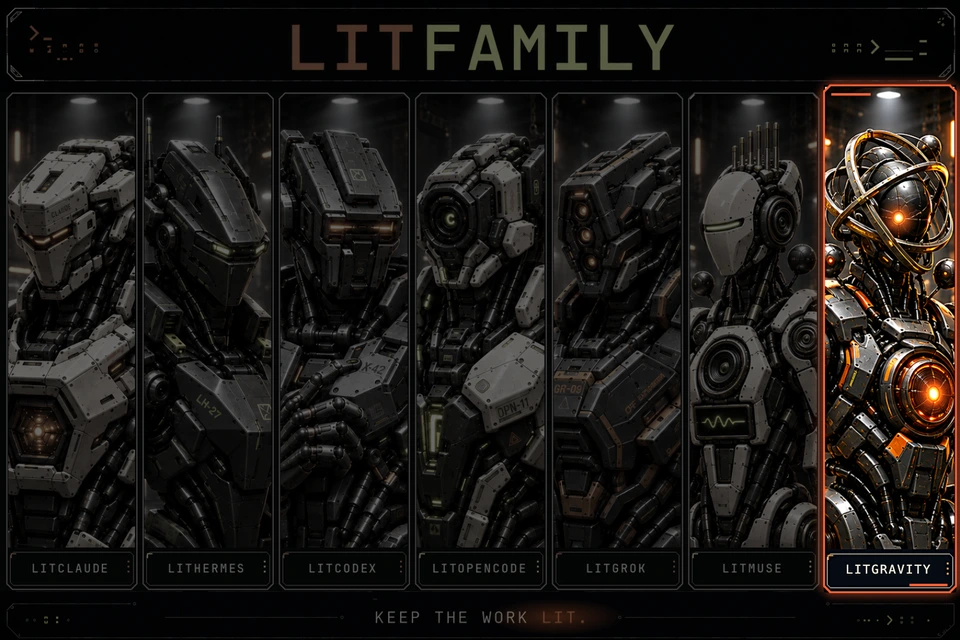
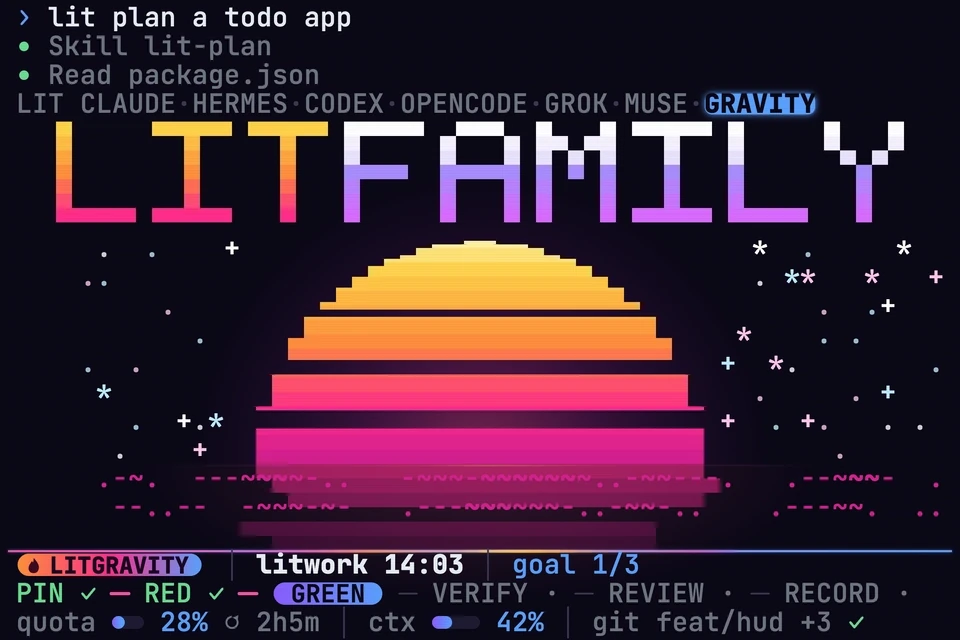
docs(readme): open with the new sunset cover loop

diff --git a/README_ko-KR.md b/README_ko-KR.md
@@ -1,4 +1,4 @@
-<p align="center"><picture><source media="(prefers-reduced-motion: reduce)" srcset="./docs/assets/cover-motion-still.webp" /><source media="(prefers-reduced-motion: no-preference)" srcset="./docs/assets/cover-motion.webp" /><img src="./docs/assets/cover.webp" width="100%" alt="LitFamily 커버: 장갑 기계 일곱 대가 각자 칸에 서 있고, 일곱 번째 칸의 LitGravity 기계(어두운 구형 머리를 자이로 고리가 감싼 기계)가 머리와 가슴의 주황 코어를 켜고 테두리에 불이 들어옵니다. 위에는 LITFAMILY, 아래에는 KEEP THE WORK LIT." /></picture></p>
+<p align="center"><picture><source media="(prefers-reduced-motion: reduce)" srcset="./docs/assets/cover-motion-still.webp" /><source media="(prefers-reduced-motion: no-preference)" srcset="./docs/assets/cover-motion.webp" /><img src="./docs/assets/cover.webp" width="100%" alt="LitFamily 커버: 노을빛 터미널 화면입니다. 위쪽에는 짧은 agy 대화가 있고, 가운데는 픽셀 글자 LITFAMILY와 줄무늬 해가 채우며 일곱 제품 이름 줄에서 LITGRAVITY가 켜지고, 아래에는 LitGravity의 상태줄이 화면을 마무리합니다." /></picture></p>
 
 <h1 align="center">LitGravity</h1>
 <p align="center"><strong>Keep the work lit.</strong></p>
@@ -335,7 +335,7 @@ agy는 플러그인에 프롬프트 자체를 받는 훅을 주지 않으므로,
 
 LitGravity는 LitFamily 패키지 일곱 개 중 하나이고, 각 패키지는 같은 일하는 방식을 코딩 에이전트 하나에 붙여 주며 따로 설치되고 따로 동작합니다. 쓰는 에이전트에 맞는 것 하나만 설치하면 되고, 다른 패키지는 필요 없습니다. 일곱 패키지와 각 패키지가 맡은 에이전트는 [LitFamily](https://github.com/wjgoarxiv/litfamily)에 모여 있습니다.
 
-커버의 장갑 기계 일곱 대가 이 일곱 패키지이고, 일곱 번째 칸의 궤도 기계가 LitGravity입니다. 커버의 모션은 LitFamily 모션 스킬로 만든 브랜드 연출로, 그려서 움직인 그림이라 실제 agy 세션을 녹화한 장면은 들어 있지 않습니다. 시스템에서 동작 줄이기를 켜 두었다면 정지 프레임이 대신 보입니다.
+아래 그림의 장갑 기계 일곱 대가 이 일곱 패키지이고, 일곱 번째 칸의 궤도 기계가 LitGravity입니다. 커버의 모션은 LitFamily 모션 스킬로 만든 브랜드 연출로, 그려서 움직인 그림이라 실제 agy 세션을 녹화한 장면은 들어 있지 않습니다. 시스템에서 동작 줄이기를 켜 두었다면 정지 프레임이 대신 보입니다.
 
 <p align="center"><img src="./docs/assets/litfamily-machines.png" width="100%" alt="LitFamily 기계 일곱 대가 모두 불이 켜진 채 나란히 서 있습니다. LitClaude, LitHermes, LitCodex, LitOpenCode, LitGrok, LitMuse, LitGravity. 위에는 LITFAMILY, 아래에는 KEEP THE WORK LIT." /></p>
 

diff --git a/README.md b/README.md
@@ -1,4 +1,4 @@
-<p align="center"><picture><source media="(prefers-reduced-motion: reduce)" srcset="./docs/assets/cover-motion-still.webp" /><source media="(prefers-reduced-motion: no-preference)" srcset="./docs/assets/cover-motion.webp" /><img src="./docs/assets/cover.webp" width="100%" alt="LitFamily cover: seven armored machines stand in their bays, and the LitGravity machine in the seventh bay, gyroscope rings around a dark spherical head, wakes with orange cores in its head and chest and a lit frame, under LITFAMILY and KEEP THE WORK LIT." /></picture></p>
+<p align="center"><picture><source media="(prefers-reduced-motion: reduce)" srcset="./docs/assets/cover-motion-still.webp" /><source media="(prefers-reduced-motion: no-preference)" srcset="./docs/assets/cover-motion.webp" /><img src="./docs/assets/cover.webp" width="100%" alt="LitFamily cover: a terminal in a sunset look. A short agy conversation sits at the top, a pixel LITFAMILY wordmark and a striped half-sunk sun fill the middle with the row of seven product names lighting LITGRAVITY, and LitGravity's status line closes the screen at the bottom." /></picture></p>
 
 <h1 align="center">LitGravity</h1>
 <p align="center"><strong>Keep the work lit.</strong></p>
@@ -341,7 +341,7 @@ The installer writes only its own plugin folder, its data directory, its rule fi
 
 LitGravity is one of the seven LitFamily packages. Each one brings the same way of working to a single coding agent, and each installs and runs on its own: install the one for the agent you use, and it needs none of the others. [LitFamily](https://github.com/wjgoarxiv/litfamily) lists all seven and the agent each one is for.
 
-The seven armored machines on the cover are those seven packages, and LitGravity is the orbit machine in the seventh bay. The cover is brand motion made with the LitFamily motion skill: drawn and animated artwork, with no agy session recorded in it. If your system asks for reduced motion, you see a still frame instead.
+The seven armored machines in the picture below are those seven packages, and LitGravity is the orbit machine in the seventh bay. The cover is brand motion made with the LitFamily motion skill: drawn and animated artwork, with no agy session recorded in it. If your system asks for reduced motion, you see a still frame instead.
 
 <p align="center"><img src="./docs/assets/litfamily-machines.png" width="100%" alt="The seven LitFamily machines side by side, all lit: LitClaude, LitHermes, LitCodex, LitOpenCode, LitGrok, LitMuse and LitGravity, under LITFAMILY and KEEP THE WORK LIT." /></p>
 

diff --git a/CHANGELOG.md b/CHANGELOG.md
@@ -2,6 +2,7 @@
 
 ## Unreleased
 
+- The README cover is a new loop: a terminal in the sunset look with a short conversation, a pixel LITFAMILY wordmark, a striped half-sunk sun and the status line, in place of the seven machines. The still for reduced motion is its first frame, and the static fallback picture is that same frame.
 - The README demo is a new silent loop of one request on the status line (the loop map, YOUR TURN, evidence files ticking stops, DONE, the sunset), replacing the old still, with a Korean copy for the Korean page; the agy screen around the status line is redrawn.
 - At a terminal, `install`, `update` and `uninstall` draw the plan, the questions, each finished step and the result as cards. A question card names its step, says what Yes does and what No leaves alone, and marks the default: `y` or `n` answers at once, the arrow keys or Tab move, Enter takes the highlight, Esc answers nothing. The questions, their order, their defaults and the stored answers are unchanged, and Ctrl+C still ends with the same message and exit code 1.
 - A failed install shows what went wrong in a red card, with the remedy below it as text you can copy. Validation warnings stay in view as their own rows.
